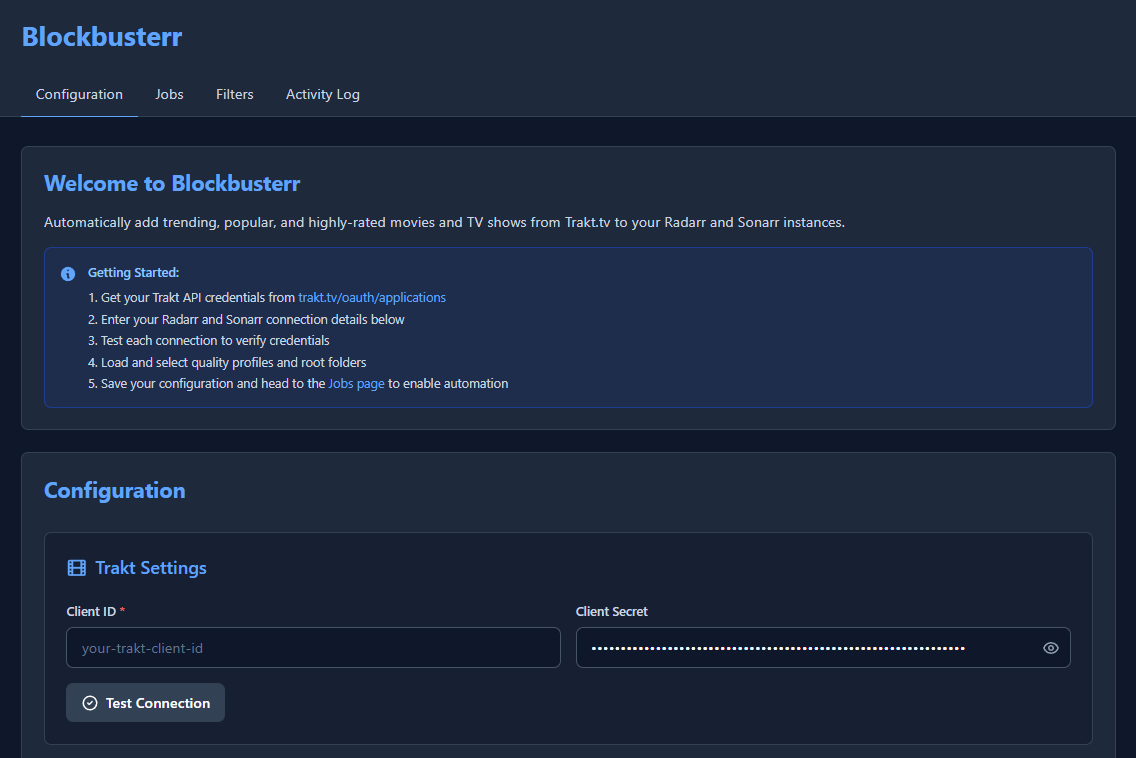
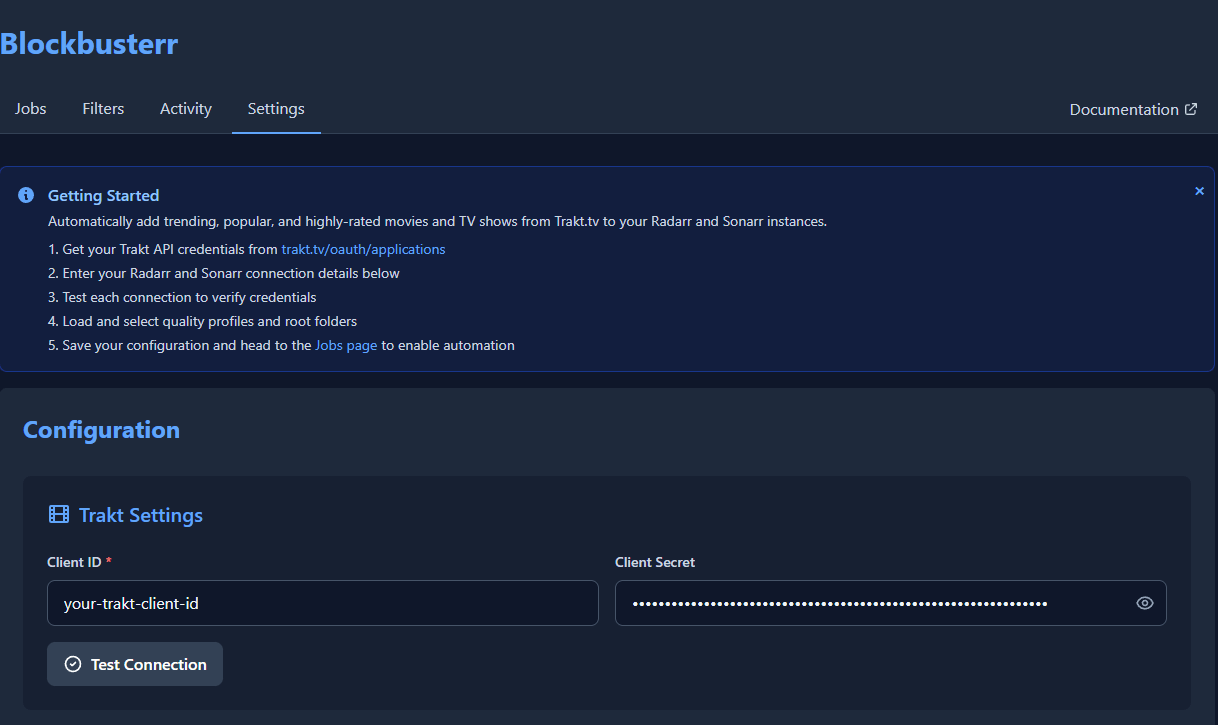
feat: updated docs with new screenshots

diff --git a/web/templates/filters.html b/web/templates/filters.html
@@ -18,7 +18,7 @@
     <button
       onclick="showTab('shows')"
       id="shows-tab"
-      class="px-6 py-3 text-slate-400 hover:text-slate-300 transition-colors"
+      class="px-6 py-3 text-slate-400 hover:text-slate-300 border-b-2 border-transparent transition-colors"
     >
       Shows
     </button>
@@ -28,11 +28,10 @@
     hx-post="/config/filters"
     hx-target="#message-container"
     hx-swap="innerHTML"
-    class="space-y-6"
   >
     <!-- Movies Tab -->
-    <div id="movies-content" class="space-y-6">
-      <div class="bg-slate-800 rounded-lg p-6 mb-4">
+    <div id="movies-content" class="space-y-0">
+      <div class="bg-slate-800 rounded-lg p-6">
         <h3
           class="text-xl font-semibold text-slate-100 mb-6 flex items-center gap-2"
         >
@@ -359,8 +358,8 @@
     </div>
 
     <!-- Shows Tab -->
-    <div id="shows-content" class="space-y-6" style="display: none">
-      <div class="bg-slate-800 rounded-lg border border-slate-700 p-6">
+    <div id="shows-content" class="space-y-0" style="display: none">
+      <div class="bg-slate-800 rounded-lg p-6">
         <h3
           class="text-xl font-semibold text-slate-100 mb-6 flex items-center gap-2"
         >
@@ -724,7 +723,7 @@
 
     <button
       type="submit"
-      class="w-full bg-blue-600 hover:bg-blue-700 text-white font-semibold py-3 rounded-lg transition-colors duration-200 flex items-center justify-center gap-2"
+      class="w-full bg-blue-600 hover:bg-blue-700 text-white font-semibold py-3 rounded-lg transition-colors duration-200 flex items-center justify-center gap-2 mt-6"
     >
       <svg
         class="w-5 h-5"
@@ -760,12 +759,12 @@
   function showTab(tab) {
     document.getElementById("movies-tab").className =
       tab === "movies"
-        ? "px-6 py-3 text-blue-400 border-b-2 border-blue-400 font-semibold"
-        : "px-6 py-3 text-slate-400 hover:text-slate-300";
+        ? "px-6 py-3 text-blue-400 border-b-2 border-blue-400 font-semibold transition-colors"
+        : "px-6 py-3 text-slate-400 hover:text-slate-300 border-b-2 border-transparent transition-colors";
     document.getElementById("shows-tab").className =
       tab === "shows"
-        ? "px-6 py-3 text-blue-400 border-b-2 border-blue-400 font-semibold"
-        : "px-6 py-3 text-slate-400 hover:text-slate-300";
+        ? "px-6 py-3 text-blue-400 border-b-2 border-blue-400 font-semibold transition-colors"
+        : "px-6 py-3 text-slate-400 hover:text-slate-300 border-b-2 border-transparent transition-colors";
     document.getElementById("movies-content").style.display =
       tab === "movies" ? "block" : "none";
     document.getElementById("shows-content").style.display =

diff --git a/README.md b/README.md
@@ -59,10 +59,10 @@ Then open `http://localhost:9090` and configure your services.
 ## 📸 Screenshots
 
 ### Dashboard & Configuration
-![Configuration](reference-docs/images/configuration.png)
+![Settings](reference-docs/images/settings.png)
 
 ### Job Preview & Management
-![Jobs Preview](reference-docs/images/jobs_preview.png)
+![Jobs Preview](reference-docs/images/jobs.png)
 
 ### Activity Log
 ![Activity Log](reference-docs/images/activity_log_preview.png)
